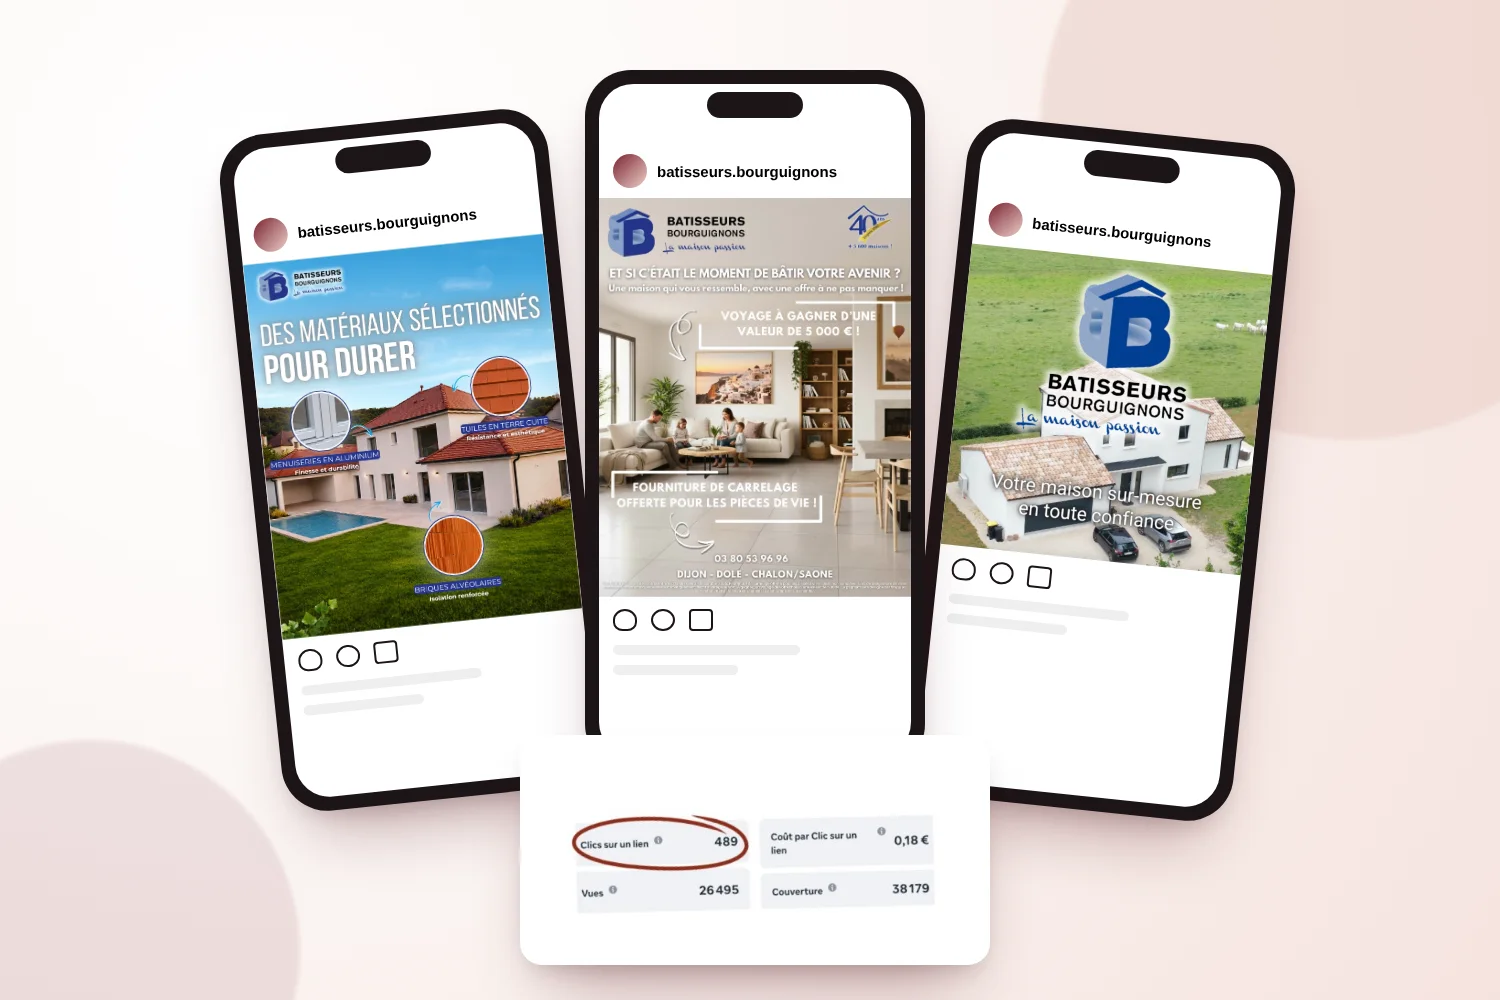
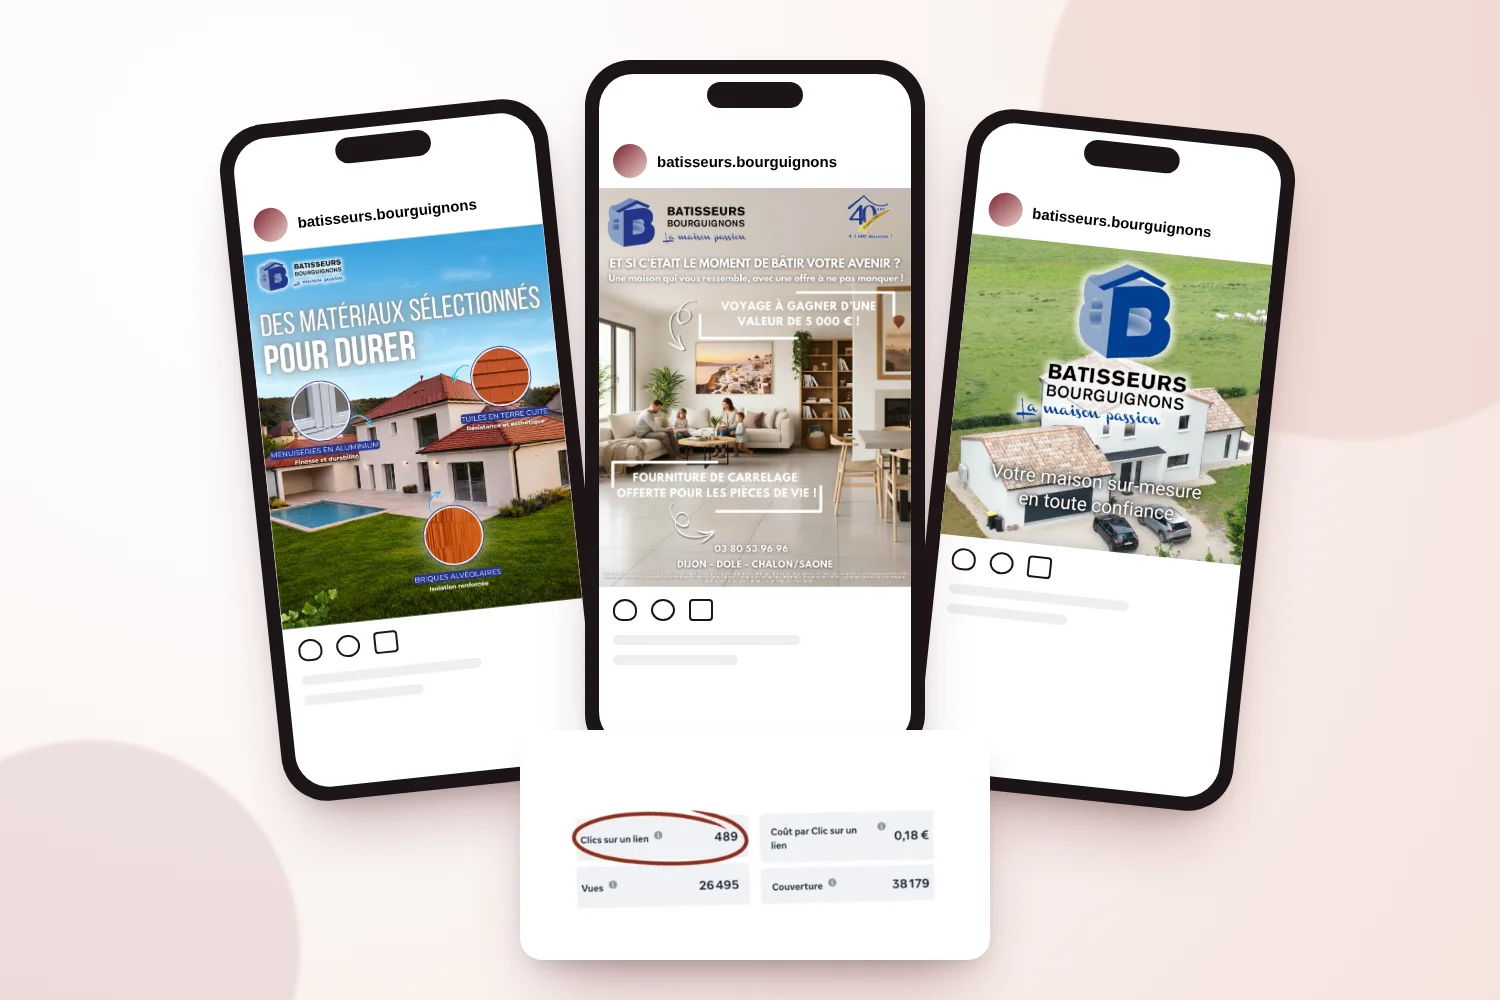
Missions : mockups adaptés au mobile et visuels remis à la bonne place
- Version carrée de chaque mockup pour les téléphones
- Plus aucun élément coupé au bord
- Publication LinkedIn NWS déplacée dans Événementiel et salons
- Vidéo Axinite retirée de Site web

Claude-Session: https://claude.ai/code/session_01ChKnf7MBQ7UGRg99UEPnwq

diff --git a/index.html b/index.html
@@ -712,6 +712,8 @@ blockquote footer b{display:block;color:var(--encre);font-weight:500;font-size:1
   .cal-barre{padding:14px}
   .cal-detail{padding:16px}
 }
+@media (max-width:600px){.projet .visuel.img{aspect-ratio:1/1!important}.dlg-visuel{aspect-ratio:1/1!important}}
+.visuel.img picture{display:block;width:100%;height:100%}
 .init{width:44px;height:44px;border-radius:50%;background:var(--bordeaux);color:var(--poudre);display:grid;place-items:center;font-weight:700;flex:none}
 @media (max-width:1000px){.kpis{grid-template-columns:1fr 1fr!important}.logos-ent .rang{grid-template-columns:1fr 1fr}}
 @media (max-width:600px){.kpis{grid-template-columns:1fr!important}.recos{grid-template-columns:1fr}.projet.grand .visuel.img{min-height:0}.logos-ent .rang{grid-template-columns:1fr 1fr}.ent-logo{flex-direction:column;text-align:center;gap:8px}}
@@ -803,7 +805,7 @@ blockquote footer b{display:block;color:var(--encre);font-weight:500;font-size:1
   <section class="bloc" id="realisations">
     <div class="wrap">
       <div class="entete-bloc"><div><p class="surtitre">Sur le terrain</p><h2>Mes missions</h2></div><p class="chapo" style="margin:0">Chaque case regroupe un type de mission. Cliquez pour voir le détail par entreprise.</p></div>
-      <div class="mosaique"><button class="projet" type="button" data-projet="publicite"><span class="plus-ico" aria-hidden="true">+</span><div class="visuel img"><img src="img/missions/mission-publicite.webp" alt="Publicités Instagram des Bâtisseurs Bourguignons et statistiques de campagne Meta Ads" loading="lazy"></div><div class="bas"><div><span class="type-mission">Publicité en ligne</span><h3>Campagnes Meta Ads et SEA</h3><span class="client">Bâtisseurs Bourguignons · NWS Laser</span></div></div></button><button class="projet" type="button" data-projet="site"><span class="plus-ico" aria-hidden="true">+</span><div class="visuel img"><img src="img/missions/mission-site-web.webp" alt="Site internet des Bâtisseurs Bourguignons sur ordinateur" loading="lazy"></div><div class="bas"><div><span class="type-mission">Site web et SEO</span><h3>Sites WordPress et référencement</h3><span class="client">Bâtisseurs Bourguignons · NWS Laser · auto-entrepreneuse</span></div></div></button><button class="projet" type="button" data-projet="social"><span class="plus-ico" aria-hidden="true">+</span><div class="visuel img"><img src="img/missions/mission-reseaux-sociaux.webp" alt="Grille Instagram de Forme &amp; Force, publication du jeu-concours Marché aux Affaires et statistiques" loading="lazy"></div><div class="bas"><div><span class="type-mission">Réseaux sociaux</span><h3>Stratégie, contenus et animation</h3><span class="client">AXA · Forme &amp; Force · Marché aux Affaires · NWS Laser</span></div></div></button><button class="projet" type="button" data-projet="video"><span class="plus-ico" aria-hidden="true">+</span><div class="visuel img"><img src="img/missions/mission-video-emailing.webp" alt="Newsletter, vidéo de présentation d&#x27;un modèle de maison et publication LinkedIn" loading="lazy"></div><div class="bas"><div><span class="type-mission">Vidéo et e-mailing</span><h3>Vidéos, newsletters et e-mailings</h3><span class="client">Bâtisseurs Bourguignons · AXA · NWS Laser</span></div></div></button><button class="projet" type="button" data-projet="identite"><span class="plus-ico" aria-hidden="true">+</span><div class="visuel img"><img src="img/missions/mission-identite-print.webp" alt="Charte graphique de Cani Positive, flyers AXA et affiche du Marché aux Affaires" loading="lazy"></div><div class="bas"><div><span class="type-mission">Identité visuelle et print</span><h3>Chartes, flyers et affiches</h3><span class="client">Cani Positive · AXA · Marché aux Affaires · NWS Laser</span></div></div></button><button class="projet" type="button" data-projet="evenementiel"><span class="plus-ico" aria-hidden="true">+</span><div class="visuel img"><img src="img/missions/mission-evenementiel.webp" alt="Stand des Bâtisseurs Bourguignons, dossier d&#x27;organisation du team building et affiche du salon Micronora" loading="lazy"></div><div class="bas"><div><span class="type-mission">Événementiel et salons</span><h3>Salons, événements réseau</h3><span class="client">Marché aux Affaires · Bâtisseurs Bourguignons · NWS Laser</span></div></div></button></div>
+      <div class="mosaique"><button class="projet" type="button" data-projet="publicite"><span class="plus-ico" aria-hidden="true">+</span><div class="visuel img"><picture><source media="(max-width:600px)" srcset="img/missions/mission-publicite-m.webp"><img src="img/missions/mission-publicite.webp" alt="Publicités Instagram des Bâtisseurs Bourguignons et statistiques de campagne Meta Ads" loading="lazy"></picture></div><div class="bas"><div><span class="type-mission">Publicité en ligne</span><h3>Campagnes Meta Ads et SEA</h3><span class="client">Bâtisseurs Bourguignons · NWS Laser</span></div></div></button><button class="projet" type="button" data-projet="site"><span class="plus-ico" aria-hidden="true">+</span><div class="visuel img"><picture><source media="(max-width:600px)" srcset="img/missions/mission-site-web-m.webp"><img src="img/missions/mission-site-web.webp" alt="Site internet des Bâtisseurs Bourguignons sur ordinateur" loading="lazy"></picture></div><div class="bas"><div><span class="type-mission">Site web et SEO</span><h3>Sites WordPress et référencement</h3><span class="client">Bâtisseurs Bourguignons · NWS Laser · auto-entrepreneuse</span></div></div></button><button class="projet" type="button" data-projet="social"><span class="plus-ico" aria-hidden="true">+</span><div class="visuel img"><picture><source media="(max-width:600px)" srcset="img/missions/mission-reseaux-sociaux-m.webp"><img src="img/missions/mission-reseaux-sociaux.webp" alt="Grille Instagram de Forme &amp; Force, publication du jeu-concours Marché aux Affaires et statistiques" loading="lazy"></picture></div><div class="bas"><div><span class="type-mission">Réseaux sociaux</span><h3>Stratégie, contenus et animation</h3><span class="client">AXA · Forme &amp; Force · Marché aux Affaires · NWS Laser</span></div></div></button><button class="projet" type="button" data-projet="video"><span class="plus-ico" aria-hidden="true">+</span><div class="visuel img"><picture><source media="(max-width:600px)" srcset="img/missions/mission-video-emailing-m.webp"><img src="img/missions/mission-video-emailing.webp" alt="Newsletter et vidéo de présentation d&#x27;un modèle de maison des Bâtisseurs Bourguignons" loading="lazy"></picture></div><div class="bas"><div><span class="type-mission">Vidéo et e-mailing</span><h3>Vidéos, newsletters et e-mailings</h3><span class="client">Bâtisseurs Bourguignons · AXA</span></div></div></button><button class="projet" type="button" data-projet="identite"><span class="plus-ico" aria-hidden="true">+</span><div class="visuel img"><picture><source media="(max-width:600px)" srcset="img/missions/mission-identite-print-m.webp"><img src="img/missions/mission-identite-print.webp" alt="Charte graphique de Cani Positive, flyers AXA et affiche du Marché aux Affaires" loading="lazy"></picture></div><div class="bas"><div><span class="type-mission">Identité visuelle et print</span><h3>Chartes, flyers et affiches</h3><span class="client">Cani Positive · AXA · Marché aux Affaires · NWS Laser</span></div></div></button><button class="projet" type="button" data-projet="evenementiel"><span class="plus-ico" aria-hidden="true">+</span><div class="visuel img"><picture><source media="(max-width:600px)" srcset="img/missions/mission-evenementiel-m.webp"><img src="img/missions/mission-evenementiel.webp" alt="Stand des Bâtisseurs Bourguignons, dossier d&#x27;organisation du team building et affiche du salon Micronora" loading="lazy"></picture></div><div class="bas"><div><span class="type-mission">Événementiel et salons</span><h3>Salons, événements réseau</h3><span class="client">Marché aux Affaires · Bâtisseurs Bourguignons · NWS Laser</span></div></div></button></div>
     </div>
   </section>
 
@@ -948,14 +950,14 @@ Bien cordialement,</textarea>
 
 <script>
 (function(){
-  var P={"publicite": {"client": "Publicité en ligne · Bâtisseurs Bourguignons · NWS Laser", "titre": "Campagnes Meta Ads et SEA", "img": "img/missions/mission-publicite.webp", "alt": "Publicités Instagram des Bâtisseurs Bourguignons et statistiques de campagne Meta Ads", "mission": "Générer des prospects avec un budget maîtrisé, dans un secteur du bâtiment en crise.", "actions": ["Bâtisseurs Bourguignons : création des visuels, ciblage et pilotage des campagnes Meta Ads", "NWS Laser : référencement payant (SEA)", "Suivi du coût par clic et ajustement des campagnes"], "chiffres": [["0,18 €", "de coût par clic"]], "tags": ["Meta Ads", "SEA", "Ciblage"]}, "site": {"client": "Site web et SEO · Bâtisseurs Bourguignons · NWS Laser · auto-entrepreneuse", "titre": "Sites WordPress et référencement", "img": "img/missions/mission-site-web.webp", "alt": "Site internet des Bâtisseurs Bourguignons sur ordinateur", "mission": "Faire du site un vrai outil de prospection, visible sur Google.", "actions": ["Bâtisseurs Bourguignons : refonte du site, contenus, SEO et référencement local", "NWS Laser : site web, SEO et fiche Google", "Une auto-entrepreneuse : conception de son site internet"], "chiffres": [["≈ 20", "leads par mois via le site des Bâtisseurs"]], "tags": ["WordPress", "SEO", "UX"]}, "social": {"client": "Réseaux sociaux · AXA · Forme & Force · Marché aux Affaires · NWS Laser", "titre": "Stratégie, contenus et animation", "img": "img/missions/mission-reseaux-sociaux.webp", "alt": "Grille Instagram de Forme & Force, publication du jeu-concours Marché aux Affaires et statistiques", "mission": "Installer une prise de parole régulière qui fait grandir l'audience.", "actions": ["Agence AXA : calendrier éditorial, 2 à 3 publications par semaine", "Forme & Force : stratégie, piliers de contenu et templates Instagram", "Marché aux Affaires : jeu-concours sur les réseaux sociaux", "NWS Laser : publications LinkedIn"], "chiffres": [["+136 %", "de visibilité Facebook pour AXA"], ["4 000+", "inscrits au jeu-concours"]], "tags": ["Facebook", "Instagram", "LinkedIn"]}, "video": {"client": "Vidéo et e-mailing · Bâtisseurs Bourguignons · AXA · NWS Laser", "titre": "Vidéos, newsletters et e-mailings", "img": "img/missions/mission-video-emailing.webp", "alt": "Newsletter, vidéo de présentation d'un modèle de maison et publication LinkedIn", "mission": "Garder le lien avec les prospects et les clients, au bon moment.", "actions": ["Bâtisseurs Bourguignons : vidéos de présentation des maisons et newsletters", "Agence AXA : e-mailings d'offres commerciales et de fidélisation", "NWS Laser : e-mailings et invitations aux salons"], "chiffres": [], "tags": ["Vidéo", "Newsletter", "E-mailing"]}, "identite": {"client": "Identité visuelle et print · Cani Positive · AXA · Marché aux Affaires · NWS Laser", "titre": "Chartes, flyers et affiches", "img": "img/missions/mission-identite-print.webp", "alt": "Charte graphique de Cani Positive, flyers AXA et affiche du Marché aux Affaires", "mission": "Donner une image claire et cohérente, du logo jusqu'aux supports imprimés.", "actions": ["Cani Positive : charte graphique complète pour le lancement", "NWS Laser : branding et design des packagings", "Agence AXA : flyers produits", "Marché aux Affaires : affiches promotionnelles en magasin"], "chiffres": [], "tags": ["Charte graphique", "Print", "Packaging"]}, "evenementiel": {"client": "Événementiel et salons · Marché aux Affaires · Bâtisseurs Bourguignons · NWS Laser", "titre": "Salons, événements réseau", "img": "img/missions/mission-evenementiel.webp", "alt": "Stand des Bâtisseurs Bourguignons, dossier d'organisation du team building et affiche du salon Micronora", "mission": "Créer des rendez-vous qui fédèrent et qui rapportent des contacts.", "actions": ["Marché aux Affaires : team building de 2 jours pour 300 franchisés", "Bâtisseurs Bourguignons : stands et salons de l'habitat", "NWS Laser : salons professionnels Micronora et SIANE"], "chiffres": [["300", "franchisés réunis"]], "tags": ["Événementiel", "Salons", "Logistique"]}};
+  var P={"publicite": {"client": "Publicité en ligne · Bâtisseurs Bourguignons · NWS Laser", "titre": "Campagnes Meta Ads et SEA", "img": "img/missions/mission-publicite.webp", "imgm": "img/missions/mission-publicite-m.webp", "alt": "Publicités Instagram des Bâtisseurs Bourguignons et statistiques de campagne Meta Ads", "mission": "Générer des prospects avec un budget maîtrisé, dans un secteur du bâtiment en crise.", "actions": ["Bâtisseurs Bourguignons : création des visuels, ciblage et pilotage des campagnes Meta Ads", "NWS Laser : référencement payant (SEA)", "Suivi du coût par clic et ajustement des campagnes"], "chiffres": [["0,18 €", "de coût par clic"]], "tags": ["Meta Ads", "SEA", "Ciblage"]}, "site": {"client": "Site web et SEO · Bâtisseurs Bourguignons · NWS Laser · auto-entrepreneuse", "titre": "Sites WordPress et référencement", "img": "img/missions/mission-site-web.webp", "imgm": "img/missions/mission-site-web-m.webp", "alt": "Site internet des Bâtisseurs Bourguignons sur ordinateur", "mission": "Faire du site un vrai outil de prospection, visible sur Google.", "actions": ["Bâtisseurs Bourguignons : refonte du site, contenus, SEO et référencement local", "NWS Laser : site web, SEO et fiche Google", "Une auto-entrepreneuse : conception de son site internet"], "chiffres": [["≈ 20", "leads par mois via le site des Bâtisseurs"]], "tags": ["WordPress", "SEO", "UX"]}, "social": {"client": "Réseaux sociaux · AXA · Forme & Force · Marché aux Affaires · NWS Laser", "titre": "Stratégie, contenus et animation", "img": "img/missions/mission-reseaux-sociaux.webp", "imgm": "img/missions/mission-reseaux-sociaux-m.webp", "alt": "Grille Instagram de Forme & Force, publication du jeu-concours Marché aux Affaires et statistiques", "mission": "Installer une prise de parole régulière qui fait grandir l'audience.", "actions": ["Agence AXA : calendrier éditorial, 2 à 3 publications par semaine", "Forme & Force : stratégie, piliers de contenu et templates Instagram", "Marché aux Affaires : jeu-concours sur les réseaux sociaux", "NWS Laser : publications LinkedIn"], "chiffres": [["+136 %", "de visibilité Facebook pour AXA"], ["4 000+", "inscrits au jeu-concours"]], "tags": ["Facebook", "Instagram", "LinkedIn"]}, "video": {"client": "Vidéo et e-mailing · Bâtisseurs Bourguignons · AXA", "titre": "Vidéos, newsletters et e-mailings", "img": "img/missions/mission-video-emailing.webp", "imgm": "img/missions/mission-video-emailing-m.webp", "alt": "Newsletter et vidéo de présentation d'un modèle de maison des Bâtisseurs Bourguignons", "mission": "Garder le lien avec les prospects et les clients, au bon moment.", "actions": ["Bâtisseurs Bourguignons : vidéos de présentation des maisons et newsletters", "Agence AXA : e-mailings d'offres commerciales et de fidélisation"], "chiffres": [], "tags": ["Vidéo", "Newsletter", "E-mailing"]}, "identite": {"client": "Identité visuelle et print · Cani Positive · AXA · Marché aux Affaires · NWS Laser", "titre": "Chartes, flyers et affiches", "img": "img/missions/mission-identite-print.webp", "imgm": "img/missions/mission-identite-print-m.webp", "alt": "Charte graphique de Cani Positive, flyers AXA et affiche du Marché aux Affaires", "mission": "Donner une image claire et cohérente, du logo jusqu'aux supports imprimés.", "actions": ["Cani Positive : charte graphique complète pour le lancement", "NWS Laser : branding et design des packagings", "Agence AXA : flyers produits", "Marché aux Affaires : affiches promotionnelles en magasin"], "chiffres": [], "tags": ["Charte graphique", "Print", "Packaging"]}, "evenementiel": {"client": "Événementiel et salons · Marché aux Affaires · Bâtisseurs Bourguignons · NWS Laser", "titre": "Salons, événements réseau", "img": "img/missions/mission-evenementiel.webp", "imgm": "img/missions/mission-evenementiel-m.webp", "alt": "Stand des Bâtisseurs Bourguignons, dossier d'organisation du team building et affiche du salon Micronora", "mission": "Créer des rendez-vous qui fédèrent et qui rapportent des contacts.", "actions": ["Marché aux Affaires : team building de 2 jours pour 300 franchisés", "Bâtisseurs Bourguignons : stands et salons de l'habitat", "NWS Laser : salons professionnels Micronora et SIANE, et publication LinkedIn d'invitation"], "chiffres": [["300", "franchisés réunis"]], "tags": ["Événementiel", "Salons", "Logistique"]}};
   var d=document.getElementById('fenetre');
   function el(id){return document.getElementById(id)}
   function txt(t,tag){var e=document.createElement(tag);e.textContent=t;return e}
   document.querySelectorAll('[data-projet]').forEach(function(b){
     b.addEventListener('click',function(){
       var p=P[b.dataset.projet];
-      el('dlg-client').textContent=p.client;var im=el('dlg-img');im.src=p.img;im.alt=p.alt; el('dlg-titre').textContent=p.titre; el('dlg-mission').textContent=p.mission;
+      el('dlg-client').textContent=p.client;var im=el('dlg-img');im.src=(window.matchMedia&&matchMedia('(max-width:600px)').matches)?p.imgm:p.img;im.alt=p.alt; el('dlg-titre').textContent=p.titre; el('dlg-mission').textContent=p.mission;
       var c=el('dlg-chiffres');c.innerHTML='';c.hidden=!p.chiffres.length;
       p.chiffres.forEach(function(x){var dv=document.createElement('div');dv.appendChild(txt(x[0],'b'));dv.appendChild(txt(x[1],'span'));c.appendChild(dv)});
       var a=el('dlg-actions');a.innerHTML='';a.hidden=!p.actions.length;p.actions.forEach(function(x){a.appendChild(txt(x,'li'))});
